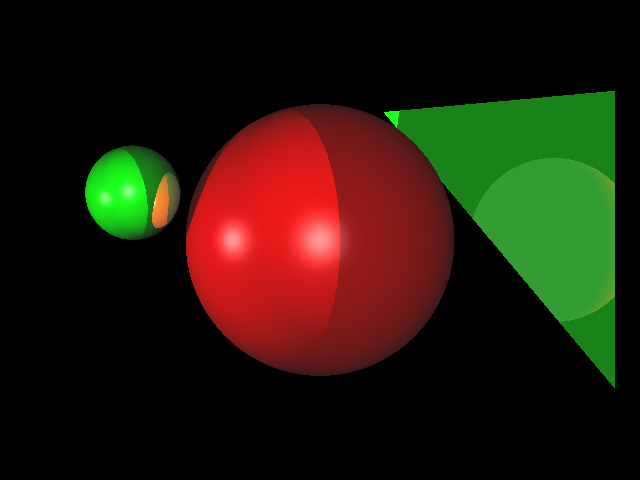
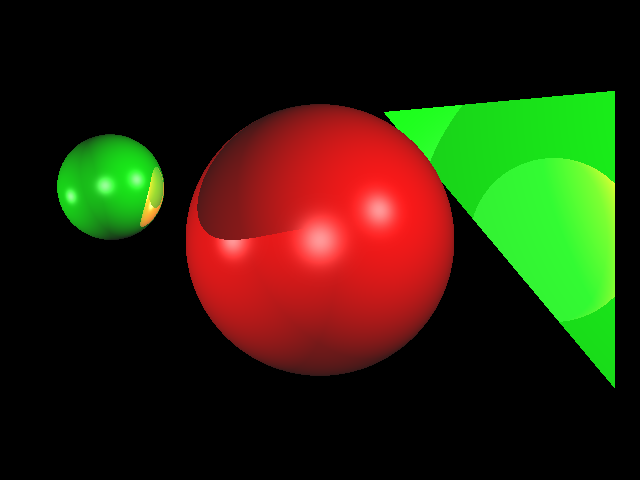
fixed bug

Changed region(s): [[0.0625, 0.1875, 0.9688, 0.8125]]

diff --git a/RaytracerHW/Src/Raytracer.cpp b/RaytracerHW/Src/Raytracer.cpp
@@ -41,7 +41,7 @@ auto Raytracer::Trace(const Ray& ray, const glm::vec3& eyePos, uint32_t depth) c
         const auto lightRay = l->GenerateLightRay(closestIntersection->mLocalGeo.mPos);
         if (std::any_of(
                 mShapes.cbegin(), mShapes.cend(), [&lightRay](const auto& s) { return s->Intersect(lightRay); }))
-            break;
+            continue;
 
         const auto lightDir = l->GetLightDirection(closestIntersection->mLocalGeo.mPos);
         const auto eyeDir = glm::normalize(eyePos - closestIntersection->mLocalGeo.mPos);

diff --git a/RaytracerHW/Src/PointLight.cpp b/RaytracerHW/Src/PointLight.cpp
@@ -11,7 +11,7 @@ PointLight::PointLight(glm::vec3 color, glm::vec3 pos, Attenuation attenuation)
 
 auto PointLight::GenerateLightRay(const glm::vec3& srcPos) const -> Ray
 {
-    return { srcPos, glm::normalize(mPos - srcPos) };
+    return { srcPos, GetLightDirection(srcPos) };
 }
 
 auto PointLight::GetLightDirection(const glm::vec3& srcPos) const -> glm::vec3

diff --git a/RaytracerHW/Src/Config.hpp b/RaytracerHW/Src/Config.hpp
@@ -41,7 +41,7 @@ public:
 public:
     // clang-format off
     static constexpr float Epsilon = 0.00002f;
-    static constexpr float TMin = 0.000001f;
+    static constexpr float TMin = 0.00001f;
     static constexpr float TMax = 100000.0f;
     static constexpr uint32_t MaxDepth = 5;
     static constexpr uint8_t ProgressBarSize = 50;
